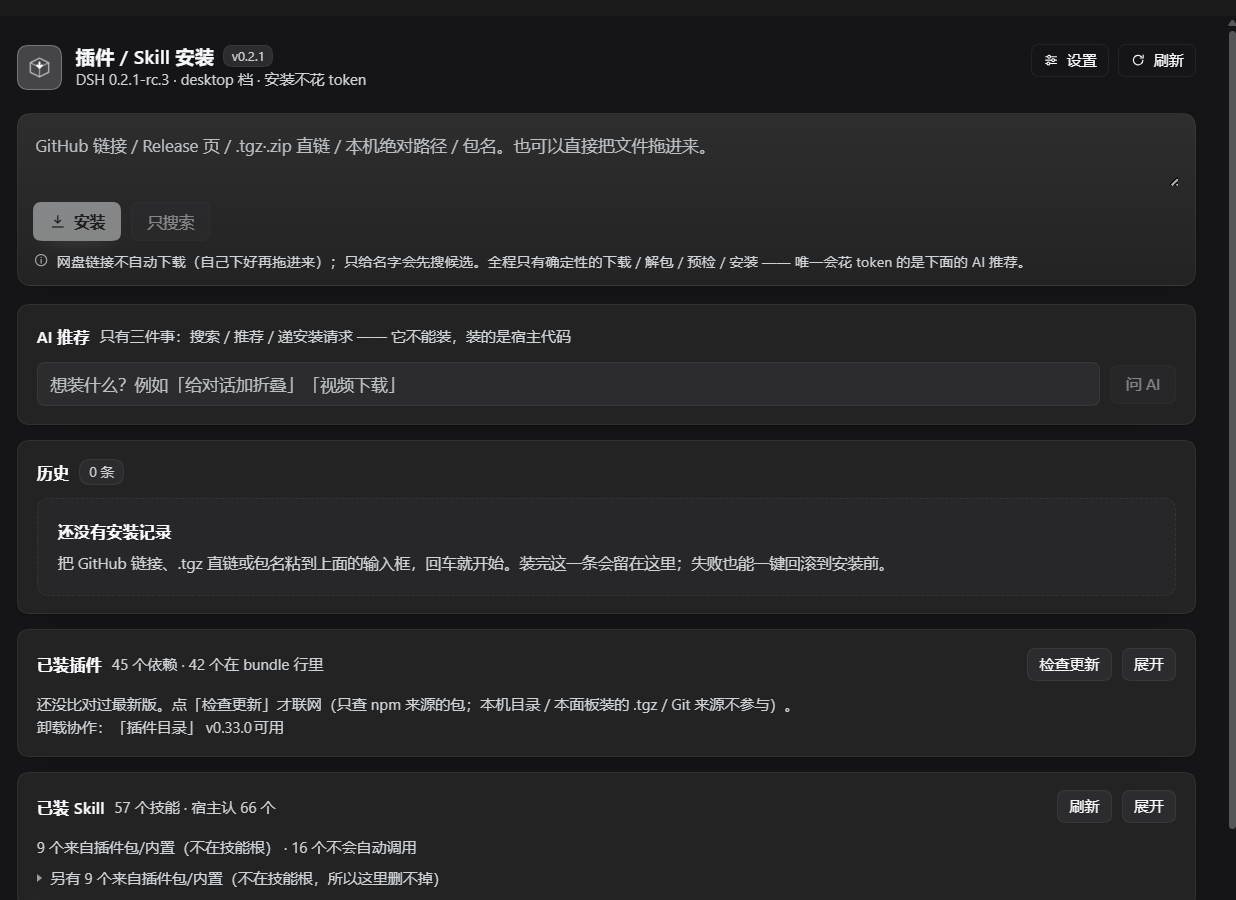
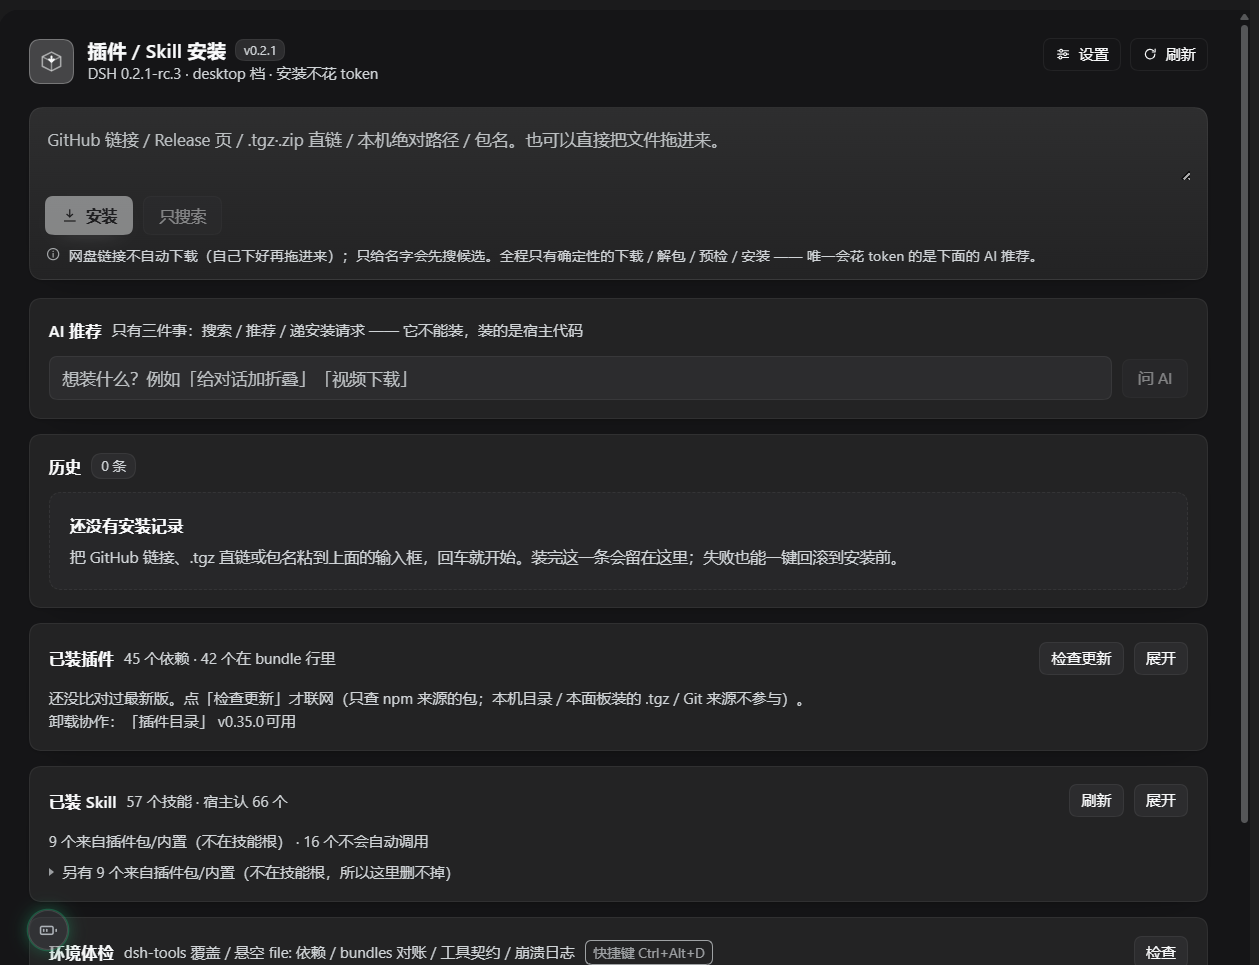
docs: 补「支持的 DSH 版本」与免脚本安装；元数据补全；夹具去掉作者本机路径
- README（中英）：新增「支持的 DSH 版本」表；顶部加开发版声明\n- README（中英）：安装段从 `dsh plugin --profile desktop add`（实为 pnpm）改成三步手工法 + 显式警告\n- README：更正「把 cordis.patch.yml 手工抄进 profile」的说法 —— 它本来就是 bundle patch，抄了会重复挂载\n- package.json：补 repository / homepage / bugs / keywords / engines（dsh + node），files 加双语文档与 LICENSE\n- dev/fixtures、dev/hosttest.mjs、dev/render-check.cjs、dev/verify-r13.mjs：作者本机路径改成 D:/ws 与可覆盖的环境变量\n- docs/panel.png：换成当前版本（v0.2.1 / 插件目录 v0.35.0）的截图，裁掉侧栏与路径

diff --git a/README.md b/README.md
@@ -2,6 +2,13 @@
 
 [English](README.en.md)
 
+> **状态：开发版，非最终版本。** 这是「边用边改」放出来的版本：功能与界面会**不定期更新**，
+> 安装流水线、配置项与数据目录都可能变。装之前请确认下一节的 DSH 版本区间。
+>
+> **Status: development build — not a final release.** Released as-is from daily use; features and UI
+> **change from time to time** (the install pipeline, settings and the data directory may change too).
+> Check the DSH version range below before installing.
+
 ![插件 / Skill 安装面板](docs/panel.png)
 
 > **装完在哪打开**：重启 DSH 之后，左侧栏会出现一个**方块里带向下箭头**的图标（文案「插件安装」，
@@ -408,7 +415,7 @@
 >    `value is not lossless JSON`（工具返回值不合法），各带大白话与两步处置。
 >
 > 真实数据（`dev/probe-crash.mjs`，00:27）：
-> `dsh-web-research 来自本机目录 D:/信息库/AI工作区/DSH-Plugin/dsh-web-research（link:）——
+> `dsh-web-research 来自本机目录 D:/<your-workspace>/DSH-Plugin/dsh-web-research（link:）——
 > 面板没有能替你重建的动作；去那个目录重新构建 client.js…`。
 >
 > 断言：hosttest **657 → 666**（+9：来源四类 5、新签名 4），render **108 → 108**，audit **101 → 101**。
@@ -991,20 +998,65 @@ dev/fixtures/            端到端夹具（selftest 技能 / probe bundle / fake
 > 方法层已经并进 skill `dsh-client-plugin-ops`（见其中「装/升级插件的三条硬约束」）。
 
 
+## 支持的 DSH 版本
+
+> 装之前先对一下版本。**版本不对时不会"凑合能用"**：轻则面板能打开但装不了东西，重则整个插件树加载失败。
+
+| 项 | 值 |
+|---|---|
+| 声明区间 | `>=0.2.1-rc.1 <0.3.0` —— 写在 `package.json` 的 `engines.dsh`，宿主按它判兼容 |
+| 实测通过 | `0.2.1-rc.2` / `0.2.1-rc.3`（Windows 11 · `desktop` profile · Node 24.21） |
+| 为什么不能更低 | 用到 `pluginManager.installBundle / removeBundle / setBundleEnabled`；且 DSH `0.2.1` 起 `ctx.tools.register()` 要求 `output` 契约、`installBundle` 按包名判已装（换版本只能"先卸再装"） |
+| `0.3.x` 及以上 | **未验证**。安装流水线与版本豁免判据都以 `0.2.1` 的契约为准，宿主升级后请先跑 `node dev/hosttest.mjs` |
+| Node | `>=20`（`engines.node`） |
+
 ## 适用 profile
 
 本插件面向 DSH 的 `desktop` profile（本机已在 `.dsh/profiles/desktop` 下加载）。
 插件包本身不含 profile 配置，profile 名可自行替换。
 
-## 安装（DSH 命令行）
+## 安装
+
+三步，跨平台，**不需要任何本机脚本**。`<profile>` 默认 `desktop`。
 
 ```bash
-# <profile> 换成你的 profile 名，本机为 desktop
-dsh plugin --profile desktop add <本目录或包名>
+# 0) 版本先对上（见上一节）
+dsh --version
+
+# 1) 克隆到**工作区**（不要直接克隆进 profile/node_modules）
+git clone https://github.com/JHboy203/dsh-plugin-installer.git "<你的工作区>/DSH-Plugin/dsh-plugin-installer"
+
+# 2) 链进 profile
+# macOS / Linux
+ln -s "<你的工作区>/DSH-Plugin/dsh-plugin-installer" ~/.dsh/profiles/<profile>/node_modules/dsh-plugin-installer
+# Windows（普通 cmd 即可）
+mklink /J "%USERPROFILE%\.dsh\profiles\<profile>\node_modules\dsh-plugin-installer" "<你的工作区>\DSH-Plugin\dsh-plugin-installer"
 ```
 
-等价方式：把本仓 `cordis.patch.yml` 的 `insert` 行追加到 profile 的 `cordis.patch.yml`。
-**改了 `cordis.patch.yml` 必须重启 DSH**（Desktop 不 watch patch 层）。
+3) 改 `<profile>/package.json` 两处，然后**完全退出并重启 DSH**：
+
+```jsonc
+{
+  "dependencies": {
+    "dsh-plugin-installer": "link:<你的工作区>/DSH-Plugin/dsh-plugin-installer"
+  },
+  "dsh": {
+    "profile": {
+      "bundles": [ /* …原有条目…, "dsh-plugin-installer" */ ]
+    }
+  }
+}
+```
+
+重启后左侧栏出现「插件安装」图标（方块里带向下箭头）即成功。
+
+> ⚠ **不要用 `dsh plugin add` / `pnpm add` 装它。** `dsh plugin` 只是把参数原样转发给 pnpm；
+> pnpm 会重算整棵树、把 `@deepseek-ai/dsh-tools` 再 hoist 一份进 profile，那份会**遮蔽宿主的**，
+> 于是工具调用报 `Cannot read properties of undefined (reading 'prepare')`，或下次启动插件批量加载失败。
+>
+> 本仓自带的 `cordis.patch.yml` 是 **bundle patch**：只要包进了 `dsh.profile.bundles`，
+> 宿主会自己按 `dsh.bundle.patch` 读它、自动 `insert`，**不需要手工往 profile 的 patch 里抄一遍**
+> （抄了会重复挂载）。
 
 ## 外部依赖与权限
 

diff --git a/README.en.md b/README.en.md
@@ -2,6 +2,12 @@
 
 [中文](README.md)
 
+> **Status: development build — not a final release.** Released as-is from daily use; features and UI
+> **change from time to time** (the install pipeline, settings and the data directory may change too).
+> Check the DSH version range below before installing.
+>
+> **状态：开发版，非最终版本。** 功能与界面会不定期更新，安装流水线、配置项与数据目录都可能变。
+
 ![Plugin / Skill Install panel](docs/panel.png)
 
 > **Where to open it after installing**: restart DSH, then look in the left sidebar for a **rounded square with a
@@ -388,20 +394,67 @@ dev/fixtures/            End-to-end fixtures (selftest skill / probe bundle / fa
 > The method layer has been merged into the skill `dsh-client-plugin-ops` (see its "three hard constraints for installing/upgrading plugins").
 
 
+## Supported DSH versions
+
+> Check the version before installing. **A mismatched version does not "sort of work"**: at best the panel
+> opens but cannot install anything, at worst the whole plugin tree fails to load.
+
+| Item | Value |
+|---|---|
+| Declared range | `>=0.2.1-rc.1 <0.3.0` — `engines.dsh` in `package.json`; the host uses it for compatibility checks |
+| Tested | `0.2.1-rc.2` / `0.2.1-rc.3` (Windows 11 · `desktop` profile · Node 24.21) |
+| Why not lower | needs `pluginManager.installBundle / removeBundle / setBundleEnabled`; since DSH `0.2.1`, `ctx.tools.register()` requires the `output` contract and `installBundle` decides "already installed" by package name (changing versions means uninstall-then-install) |
+| `0.3.x` and above | **Not verified.** The install pipeline and version-exemption rules assume the `0.2.1` contracts; after a host upgrade run `node dev/hosttest.mjs` first |
+| Node | `>=20` (`engines.node`) |
+
 ## Applicable profile
 
 This plugin targets DSH's `desktop` profile (loaded on this machine under `.dsh/profiles/desktop`).
 The plugin package itself contains no profile configuration; the profile name can be replaced as you like.
 
-## Installation (DSH CLI)
+## Installation
+
+Three steps, cross-platform, **no local helper script required**. `<profile>` is `desktop` by default.
 
 ```bash
-# Replace <profile> with your profile name; on this machine it is desktop
-dsh plugin --profile desktop add <本目录或包名>
+# 0) check the host version against the range above
+dsh --version
+
+# 1) clone into your **workspace** (not into profile/node_modules)
+git clone https://github.com/JHboy203/dsh-plugin-installer.git "<your-workspace>/DSH-Plugin/dsh-plugin-installer"
+
+# 2) link into the profile
+# macOS / Linux
+ln -s "<your-workspace>/DSH-Plugin/dsh-plugin-installer" ~/.dsh/profiles/<profile>/node_modules/dsh-plugin-installer
+# Windows (plain cmd is enough)
+mklink /J "%USERPROFILE%\.dsh\profiles\<profile>\node_modules\dsh-plugin-installer" "<your-workspace>\DSH-Plugin\dsh-plugin-installer"
 ```
 
-Equivalent: append the `insert` row of this repo's `cordis.patch.yml` to the profile's `cordis.patch.yml`.
-**After changing `cordis.patch.yml` you must restart DSH** (Desktop doesn't watch the patch layer).
+3) Edit `<profile>/package.json` in two places, then **fully quit and restart DSH**:
+
+```jsonc
+{
+  "dependencies": {
+    "dsh-plugin-installer": "link:<your-workspace>/DSH-Plugin/dsh-plugin-installer"
+  },
+  "dsh": {
+    "profile": {
+      "bundles": [ /* …existing entries…, "dsh-plugin-installer" */ ]
+    }
+  }
+}
+```
+
+After the restart the "Plugin Installer" icon (a square with a down arrow) appears in the left sidebar.
+
+> ⚠ **Do not install with `dsh plugin add` / `pnpm add`.** `dsh plugin` just forwards its arguments to pnpm;
+> pnpm recomputes the tree and hoists a second `@deepseek-ai/dsh-tools` into the profile, which **shadows the
+> host's copy** — tool calls then fail with `Cannot read properties of undefined (reading 'prepare')`, or the
+> next startup fails to load plugins.
+>
+> This repo's `cordis.patch.yml` is a **bundle patch**: once the package is in `dsh.profile.bundles`, the host
+> reads it via `dsh.bundle.patch` and applies the `insert` itself — **do not copy it into the profile patch as
+> well** (that would mount it twice).
 
 ## External dependencies and permissions
 
